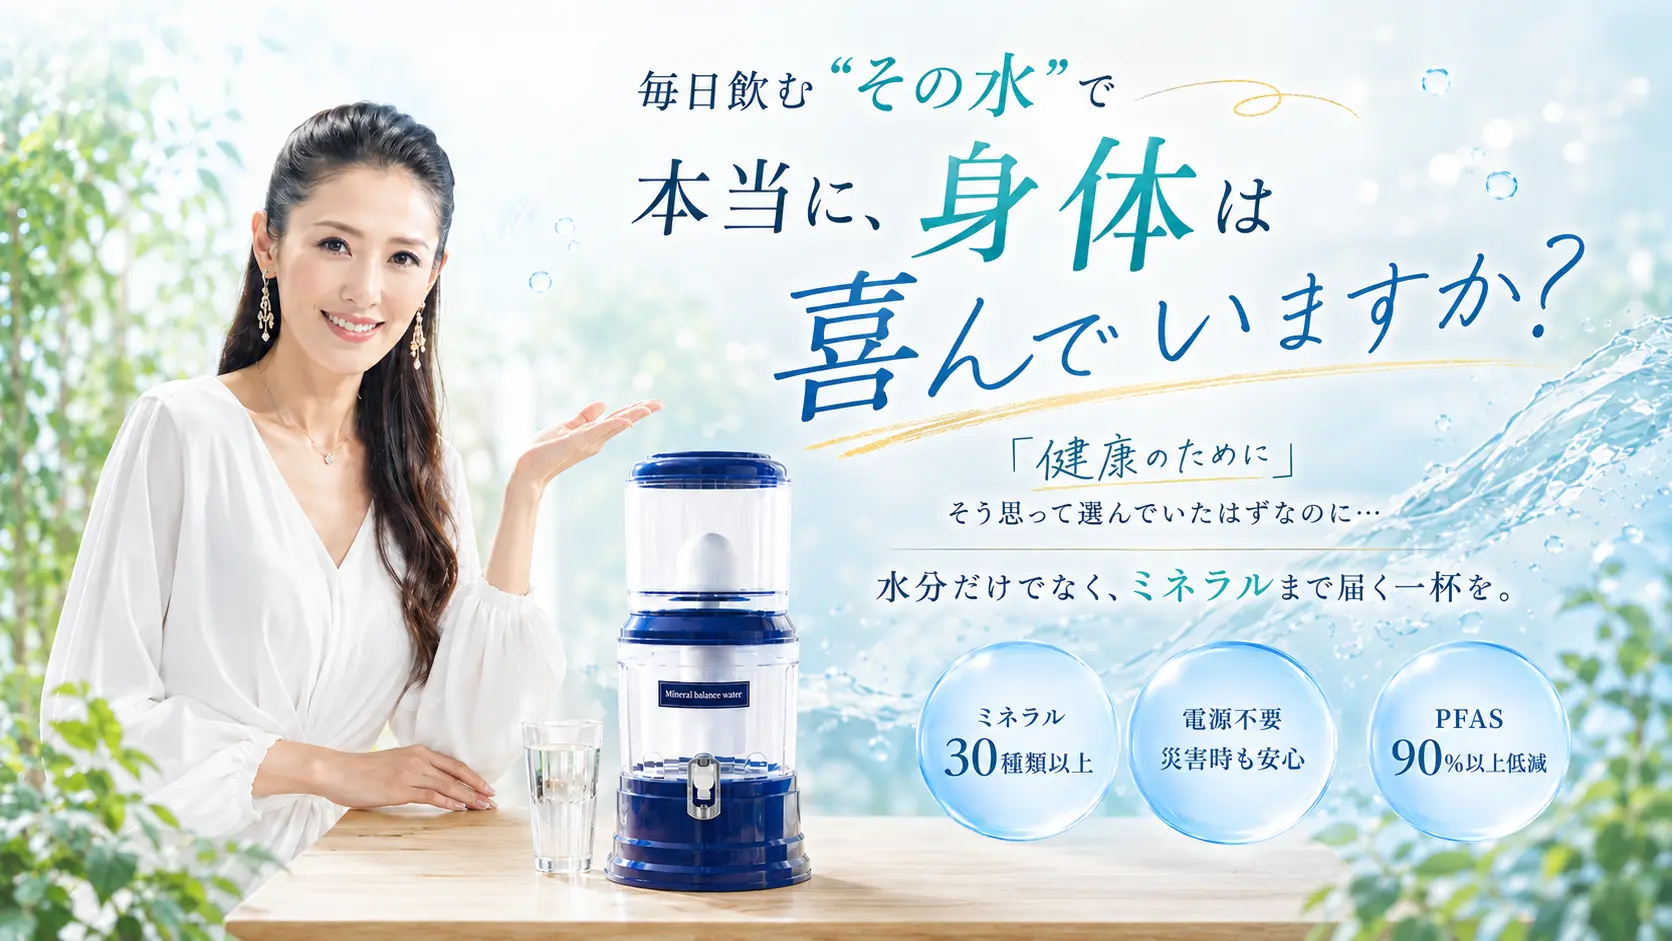
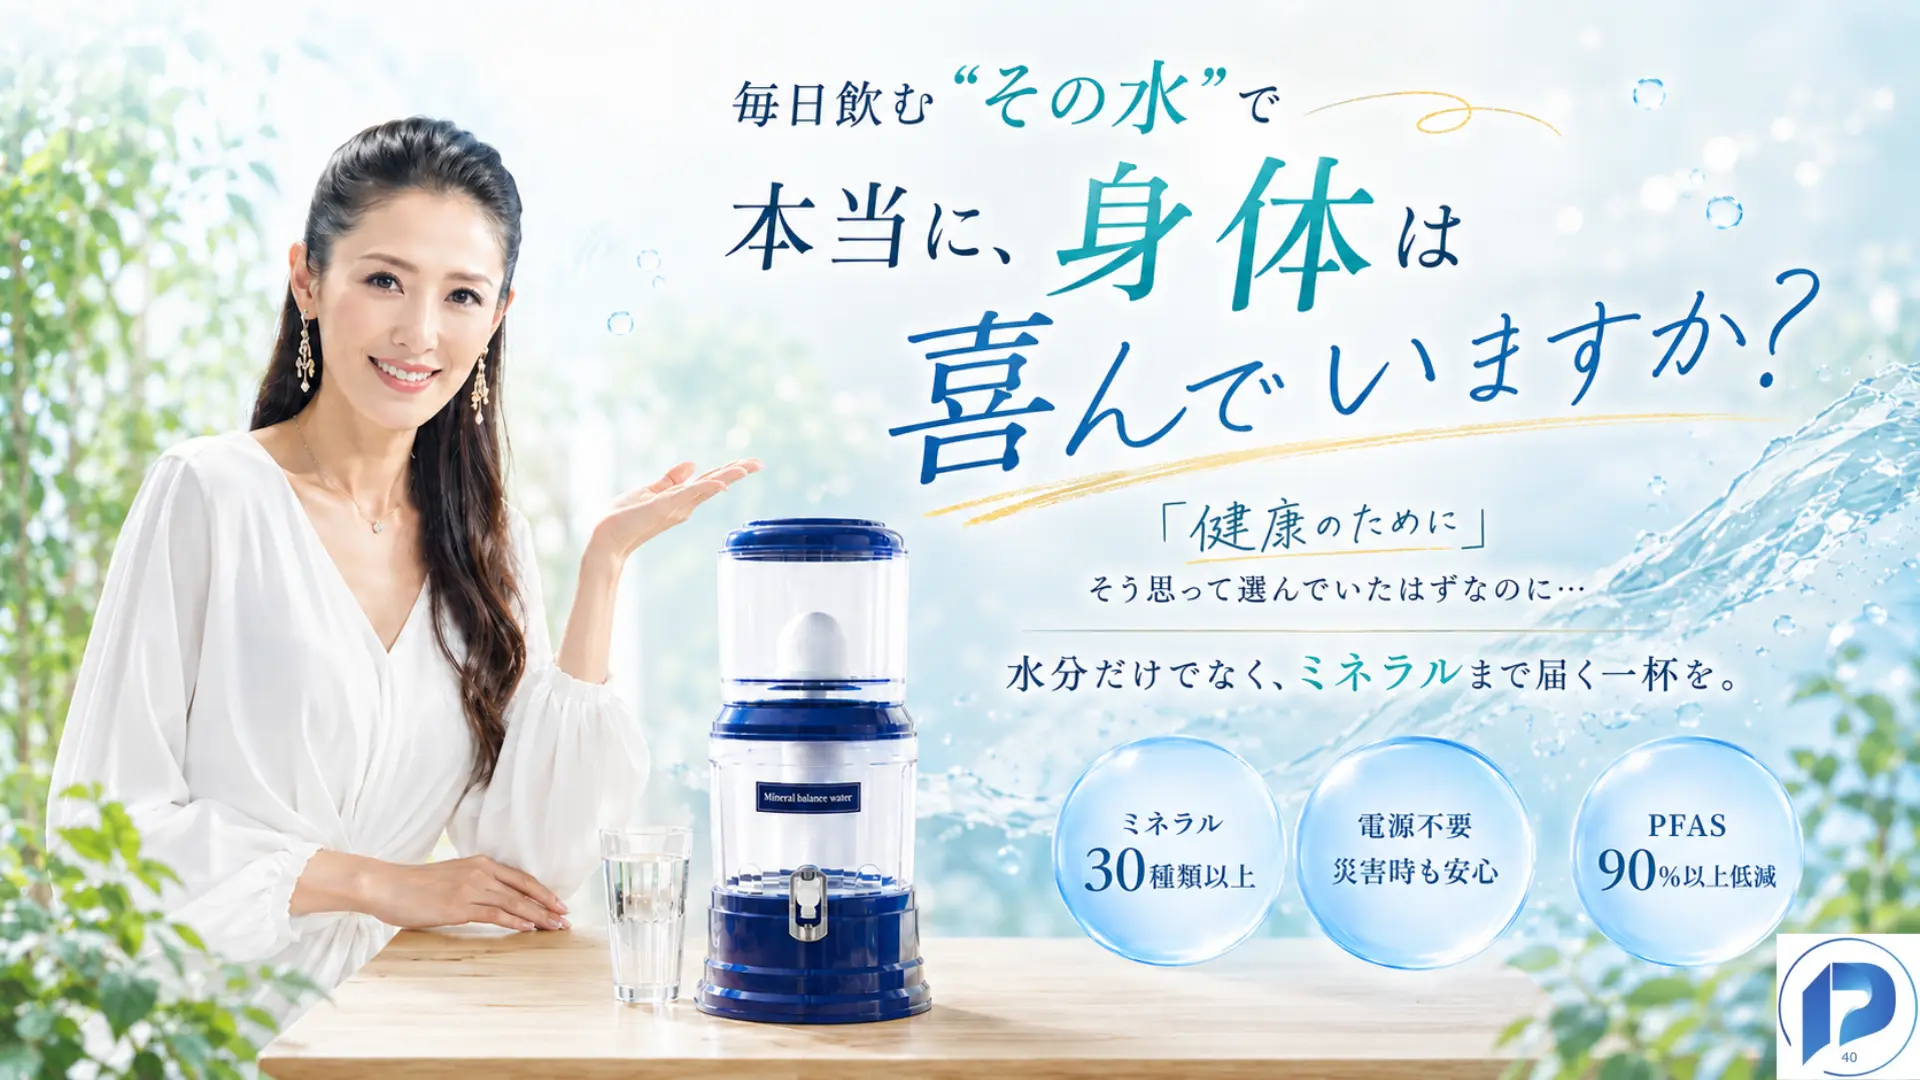
背景改善と完成

diff --git a/js/script.js b/js/script.js
@@ -80,4 +80,84 @@ document.addEventListener('DOMContentLoaded', function () {
     document.body.removeChild(ta);
   }
 
+
+  /* ---- PCのみ：スクロール位置に応じてbody背景を切替 ---- */
+  /* 01〜05 → bg1 / 06〜10 → bg2 / 11〜16 → bg3 */
+  function setupScrollBackground() {
+    // スマホサイズなら何もしない
+    if (window.innerWidth < 768) return;
+
+    const group2Sections = ['sec-06', 'sec-07', 'sec-08', 'sec-09', 'sec-10'];
+    const group3Sections = ['sec-11', 'sec-12', 'sec-13', 'sec-14', 'sec-15', 'sec-16'];
+
+    // 各セクションのDOM要素を取得
+    const group2Elements = group2Sections
+      .map(cls => document.querySelector('.' + cls))
+      .filter(el => el !== null);
+    const group3Elements = group3Sections
+      .map(cls => document.querySelector('.' + cls))
+      .filter(el => el !== null);
+
+    if (group2Elements.length === 0 && group3Elements.length === 0) return;
+
+    const body = document.body;
+
+    // どのグループに属するかチェック
+    function updateBackground() {
+      const triggerY = window.innerHeight * 0.35; // 画面上から35%地点で判定
+
+      // どのセクションが画面の上部に来ているかチェック
+      let currentGroup = 1;
+
+      // group3 のいずれかが画面上部に達していたら group3
+      for (const el of group3Elements) {
+        const rect = el.getBoundingClientRect();
+        if (rect.top <= triggerY) {
+          currentGroup = 3;
+        }
+      }
+
+      // group3 でなければ group2 をチェック
+      if (currentGroup === 1) {
+        for (const el of group2Elements) {
+          const rect = el.getBoundingClientRect();
+          if (rect.top <= triggerY) {
+            currentGroup = 2;
+          }
+        }
+      }
+
+      // クラスを更新
+      body.classList.remove('bg-group-2', 'bg-group-3');
+      if (currentGroup === 2) body.classList.add('bg-group-2');
+      else if (currentGroup === 3) body.classList.add('bg-group-3');
+    }
+
+    // スクロール時に呼び出し（throttle で軽量化）
+    let scrollTicking = false;
+    window.addEventListener('scroll', function () {
+      if (!scrollTicking) {
+        requestAnimationFrame(function () {
+          updateBackground();
+          scrollTicking = false;
+        });
+        scrollTicking = true;
+      }
+    });
+
+    // 初期実行
+    updateBackground();
+  }
+
+  setupScrollBackground();
+
+  // ウィンドウリサイズ時にも対応
+  window.addEventListener('resize', function () {
+    if (window.innerWidth < 768) {
+      document.body.classList.remove('bg-group-2', 'bg-group-3');
+    } else {
+      setupScrollBackground();
+    }
+  });
+
 });

diff --git a/index.html b/index.html
@@ -129,7 +129,7 @@
     <h2 class="sec-04__title">
       <span class="marker">「ミネラル不足」</span>
     </h2>
-    <p class="sec-04__lead">と言われています。</p>
+    <!--<p class="sec-04__lead">と言われています。</p> -->
 
     <img src="images/04_modern-life.webp"
          alt="現代の食卓と農業のイメージ"
@@ -555,7 +555,7 @@
       体験・お問い合わせください。
     </p>
 
-    <!-- 紹介者カード（豪華版・CTA直前で「エリ」を強く印象付ける） -->
+    <!-- 紹介者カード（豪華版・CTA直前で「ササキエリ」を強く印象付ける） -->
     <div class="sec-15__referral">
       <div class="sec-15__referral-frame">
         <p class="sec-15__referral-label">
@@ -567,15 +567,21 @@
         <button type="button"
                 class="sec-15__referral-name"
                 id="referralCodeBtn"
-                data-code="エリ"
-                aria-label="紹介者名「エリ」をコピー">
-          <span class="sec-15__referral-name-text">エ&nbsp;リ</span>
+                data-code="ササキエリ"
+                aria-label="紹介者名「ササキエリ」をコピー">
+          <span class="sec-15__referral-name-text">ササキエリ</span>
           <span class="sec-15__referral-copy" aria-hidden="true">📋</span>
         </button>
 
+        <div class="sec-15__referral-id">
+          <span class="sec-15__referral-id-label">申込ID</span>
+          <span class="sec-15__referral-id-value">442981</span>
+        </div>
+
         <p class="sec-15__referral-instruction">
           お申し込み時、紹介者欄に<br>
-          <strong>「エリ」</strong> と必ずご入力ください
+          <strong>「ササキエリ」</strong> と<br>
+          申込IDを必ずご入力ください
         </p>
 
         <p class="sec-15__referral-warning">
@@ -646,16 +652,22 @@
 </footer>
 
 <!-- ========================================
-     フローティングバー（紹介者「エリ」表示＋CTA統合版）
-     ※スマホ画面を圧迫しない1本仕様
+     フローティングバー（申込ID＋紹介者＋CTA統合）
+     ※薄型1本・スマホ画面を圧迫しない
 ======================================== -->
 <a href="https://potapotaclub.jp/newentry/"
    class="floating-bar"
    target="_blank"
    rel="noopener noreferrer">
-  <span class="floating-bar__id">
-    <span class="floating-bar__id-label">ID</span>
-    <span class="floating-bar__id-value">エリ</span>
+  <span class="floating-bar__info">
+    <span class="floating-bar__info-row">
+      <span class="floating-bar__info-label">申込ID</span>
+      <span class="floating-bar__info-value">442981</span>
+    </span>
+    <span class="floating-bar__info-row">
+      <span class="floating-bar__info-label">紹介者</span>
+      <span class="floating-bar__info-value">ササキエリ</span>
+    </span>
   </span>
   <span class="floating-bar__divider"></span>
   <span class="floating-bar__cta-text">お申し込み</span>

diff --git a/css/06_pc-view.css b/css/06_pc-view.css
@@ -20,10 +20,38 @@
 @media (min-width: 768px) {
 
 /* ============================================
+   PC用：スクロールで body 背景を切り替え
+   ・デフォルト（01〜05表示中）→ pc-bg1.webp
+   ・06〜10 表示中 → pc-bg2.webp（JSで body.bg-group-2 が付く）
+   ・11〜16 表示中 → pc-bg3.webp（JSで body.bg-group-3 が付く）
+   ・LP本体の左右に画像が広がる
+   ・切替時はクロスフェード風のトランジション
+============================================ */
+body {
+  background-image: url('../images/pc-bg2.webp');
+  background-size: cover;
+  background-position: center center;
+  background-attachment: fixed;
+  background-repeat: no-repeat;
+  transition: background-image 1s ease-in-out;
+}
+
+body.bg-group-2 {
+  background-image: url('../images/pc-bg1.webp');
+}
+
+body.bg-group-3 {
+  background-image: url('../images/pc-bg3.webp');
+}
+
+/* ============================================
    全体共通
 ============================================ */
 .lp {
   max-width: 1000px;
+  /* LP本体の背景が透けないようにクリーム色を明示 */
+  background-color: var(--c-cream);
+  box-shadow: 0 0 60px rgba(30, 58, 107, 0.15);
 }
 
 /* ============================================

diff --git a/README.md b/README.md
@@ -53,6 +53,9 @@ club-eco-water/
 | 20 | `15_closing-water.webp` | 1080 × 1080 | 1:1 | グラスに注がれる清らかな水（締めビジュアル） |
 | 21 | `16_profile-eri.webp` | 800 × 1000 | 4:5 | 佐々木えりさんのプロフィール写真（円形で表示されます） |
 | 22 | `01_fv-hero-pc.webp` | 1920 × 1080 | 16:9 | **【PCのみ】** 横長のFV画像。スマホでは表示されません。PC版を使わない場合は index.html の該当 img タグを削除 |
+| 23 | `pc-bg1.webp` | 1920 × 1200 推奨 | 横長 | **【PCのみ】** PC背景画像①（LP外側の左右の空白部分に表示） |
+| 24 | `pc-bg2.webp` | 1920 × 1200 推奨 | 横長 | **【PCのみ】** PC背景画像②（切替用） |
+| 25 | `pc-bg3.webp` | 1920 × 1200 推奨 | 横長 | **【PCのみ】** PC背景画像③（切替用） |
 
 ---
 